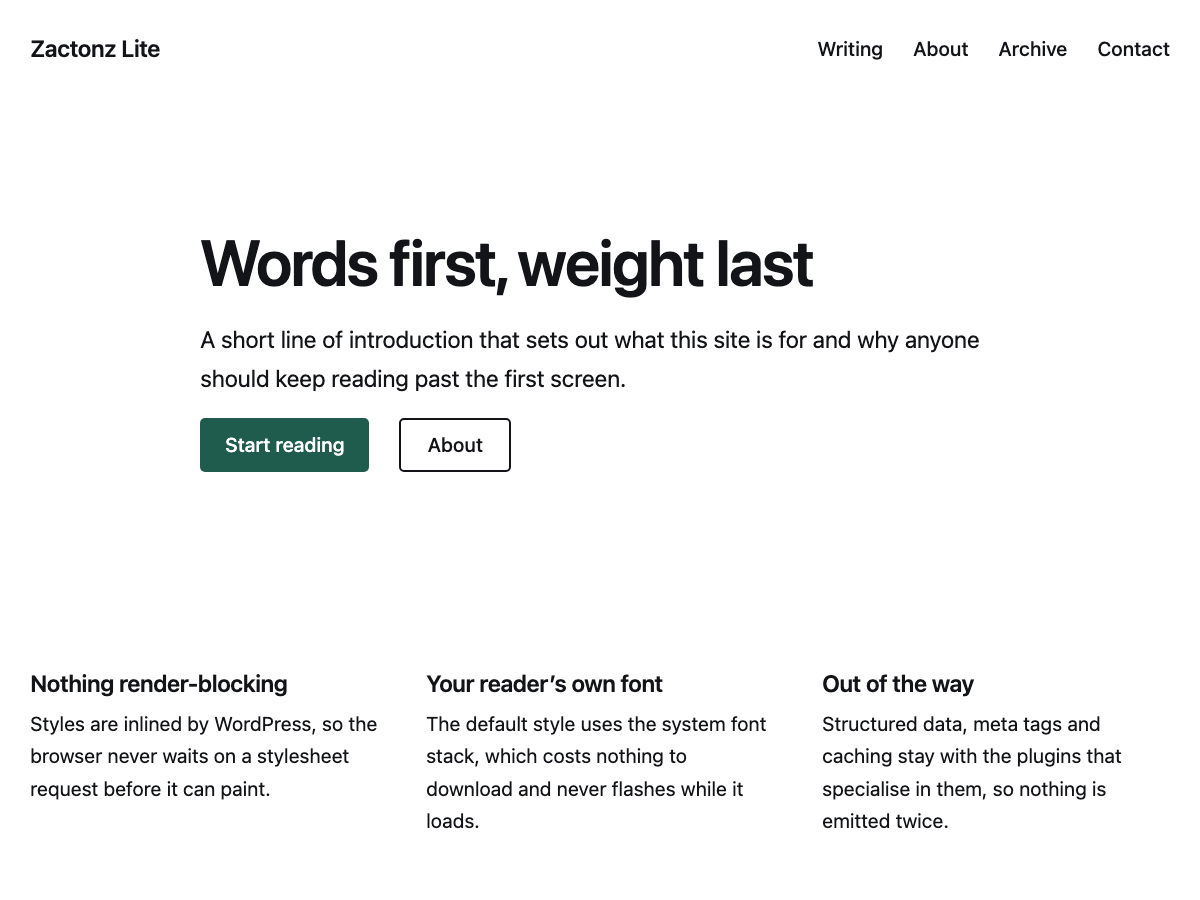
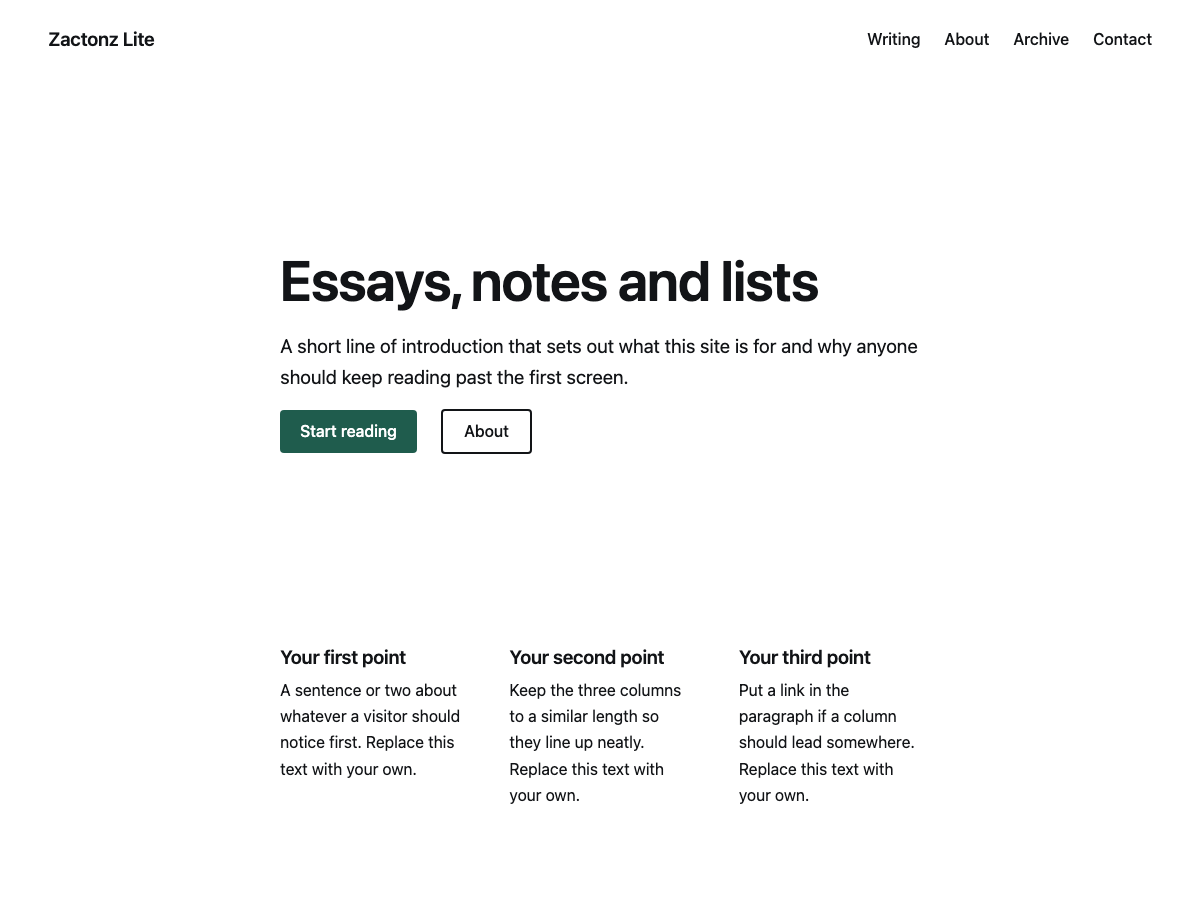
Stop the theme advertising itself, and ship as 1.0.2
Approved by WordPress.org on 22 November 2026 and live in the directory.
This commit is the source of that published build: every one of the 36
files in the published zip is byte-identical to this tree, verified by
downloading zactonz-lite.1.0.2.zip and diffing it file by file.

The reviewer's objection was that the theme described itself in the
places a site is meant to describe itself.

  The screenshot showed three columns of copy about the theme's own
  features, which reads as an advertisement rather than as the theme.

  The Three columns of features pattern shipped that same copy, so
  inserting it gave a site paragraphs about this theme instead of
  placeholder text to replace. It now reads "Your first point" and so on.

  The Hero pattern headline was the theme's tagline rather than a
  headline a site would write.

Alongside those:

  assets/css/main.un-compressed.css becomes main.css, and the loaded file
  becomes main.min.css, which is the convention. Both still ship; only the
  names changed.

  The developer documentation still described a navigation stylesheet and
  a filter that 1.0.1 removed.

Only 1.0.2 is tagged. 1.0.0 was never published and 1.0.1 was submitted
but superseded during review, so neither is a version anyone installed.

diff --git a/assets/css/main.css b/assets/css/main.css
@@ -1,1 +1,80 @@
-.zlite-bar{box-sizing:border-box;width:100%;max-width:var(--wp--style--global--wide-size);margin-inline:auto;padding-inline:var(--wp--style--root--padding-right)}.zlite-media img{width:100%;height:auto;aspect-ratio:16 / 10;object-fit:cover}.zlite-rule{border-top:1px solid var(--wp--preset--color--accent-soft)}.wp-site-blocks pre{max-width:100%;overflow-x:auto}.wp-site-blocks img,.wp-site-blocks iframe,.wp-site-blocks embed,.wp-site-blocks object,.wp-site-blocks video{max-width:100%}.wp-site-blocks img{height:auto}.wp-block-media-text__media img{aspect-ratio:auto 16 / 10}.wp-site-blocks .wp-caption{max-width:100%}.wp-site-blocks .wp-caption img{height:auto}.wp-site-blocks .entry-content,.wp-site-blocks .wp-block-post-title,.wp-site-blocks .wp-block-heading{overflow-wrap:break-word}
+.zlite-bar {
+	box-sizing: border-box;
+	width: 100%;
+	max-width: var(--wp--style--global--wide-size);
+	margin-inline: auto;
+	padding-inline: var(--wp--style--root--padding-right);
+}
+
+.zlite-media img {
+	width: 100%;
+	height: auto;
+	aspect-ratio: 16 / 10;
+	object-fit: cover;
+}
+
+.zlite-rule {
+	border-top: 1px solid var(--wp--preset--color--accent-soft);
+}
+
+/*
+ * Guards for content the theme did not author.
+ *
+ * A block theme gets its layout from theme.json, which sizes the blocks it knows
+ * about. It does not constrain what arrives inside them: a pasted URL, a code sample,
+ * a wide table, an old [caption] shortcode or an embed from before the block editor.
+ * Any of those can be wider than the column, and because the column is inside the
+ * page, the page scrolls sideways rather than the content. Everything below keeps the
+ * overflow inside the element it belongs to.
+ */
+
+.wp-site-blocks pre {
+	max-width: 100%;
+	overflow-x: auto;
+}
+
+.wp-site-blocks img,
+.wp-site-blocks iframe,
+.wp-site-blocks embed,
+.wp-site-blocks object,
+.wp-site-blocks video {
+	max-width: 100%;
+}
+
+.wp-site-blocks img {
+	height: auto;
+}
+
+/*
+ * Reserve the Image beside text pattern's proportions while its picture loads, which
+ * is what the width and height attributes used to do before they were removed: core's
+ * media-text block saves only src and alt on that img, so anything else there makes the
+ * block invalid in the editor.
+ *
+ * The auto keyword is load-bearing. A bare ratio would be imposed on whatever picture
+ * the user drops in and squash it; with auto, the ratio applies only until the image
+ * reports its own, which is exactly the window the layout shift happens in.
+ */
+.wp-block-media-text__media img {
+	aspect-ratio: auto 16 / 10;
+}
+
+/* The caption markup the classic editor produced, which carries its own width. */
+.wp-site-blocks .wp-caption {
+	max-width: 100%;
+}
+
+.wp-site-blocks .wp-caption img {
+	height: auto;
+}
+
+/*
+ * A single unbroken string - a long URL, a compound word - cannot wrap on its own.
+ * break-word leaves ordinary prose alone and only intervenes when a word would
+ * otherwise overflow.
+ */
+.wp-site-blocks .entry-content,
+.wp-site-blocks .wp-block-post-title,
+.wp-site-blocks .wp-block-heading {
+	overflow-wrap: break-word;
+}

diff --git a/assets/css/main.min.css b/assets/css/main.min.css
@@ -1,0 +1,1 @@
+.zlite-bar{box-sizing:border-box;width:100%;max-width:var(--wp--style--global--wide-size);margin-inline:auto;padding-inline:var(--wp--style--root--padding-right)}.zlite-media img{width:100%;height:auto;aspect-ratio:16 / 10;object-fit:cover}.zlite-rule{border-top:1px solid var(--wp--preset--color--accent-soft)}.wp-site-blocks pre{max-width:100%;overflow-x:auto}.wp-site-blocks img,.wp-site-blocks iframe,.wp-site-blocks embed,.wp-site-blocks object,.wp-site-blocks video{max-width:100%}.wp-site-blocks img{height:auto}.wp-block-media-text__media img{aspect-ratio:auto 16 / 10}.wp-site-blocks .wp-caption{max-width:100%}.wp-site-blocks .wp-caption img{height:auto}.wp-site-blocks .entry-content,.wp-site-blocks .wp-block-post-title,.wp-site-blocks .wp-block-heading{overflow-wrap:break-word}

diff --git a/style.css b/style.css
@@ -7,7 +7,7 @@ Description: A featherweight block theme for publishers who care about page weig
 Requires at least: 6.8
 Tested up to: 7.1
 Requires PHP: 7.4
-Version: 1.0.1
+Version: 1.0.2
 License: GNU General Public License v2 or later
 License URI: https://www.gnu.org/licenses/gpl-2.0.html
 Text Domain: zactonz-lite

diff --git a/patterns/features-three-column.php b/patterns/features-three-column.php
@@ -9,16 +9,16 @@
 
 $zactonz_lite_features = array(
 	array(
-		'title' => __( 'Nothing render-blocking', 'zactonz-lite' ),
-		'body'  => __( 'Styles are inlined by WordPress, so the browser never waits on a stylesheet request before it can paint.', 'zactonz-lite' ),
+		'title' => __( 'Your first point', 'zactonz-lite' ),
+		'body'  => __( 'A sentence or two about whatever a visitor should notice first. Replace this text with your own.', 'zactonz-lite' ),
 	),
 	array(
-		'title' => __( 'Your reader’s own font', 'zactonz-lite' ),
-		'body'  => __( 'The default style uses the system font stack, which costs nothing to download and never flashes while it loads.', 'zactonz-lite' ),
+		'title' => __( 'Your second point', 'zactonz-lite' ),
+		'body'  => __( 'Keep the three columns to a similar length so they line up neatly. Replace this text with your own.', 'zactonz-lite' ),
 	),
 	array(
-		'title' => __( 'Out of the way', 'zactonz-lite' ),
-		'body'  => __( 'Structured data, meta tags and caching stay with the plugins that specialise in them, so nothing is emitted twice.', 'zactonz-lite' ),
+		'title' => __( 'Your third point', 'zactonz-lite' ),
+		'body'  => __( 'Put a link in the paragraph if a column should lead somewhere. Replace this text with your own.', 'zactonz-lite' ),
 	),
 );
 

diff --git a/tools/lint.php b/tools/lint.php
@@ -23,7 +23,7 @@ function zl_files( $root, $pattern ) {
 $php_files      = zl_files( $root, '~\.php$~' );
 $shipped_php    = array_values( array_filter( $php_files, fn( $f ) => ! str_contains( $f, '/tools/' ) ) );
 $block_files    = array_merge( zl_files( $root, '~/(templates|parts)/.*\.html$~' ), zl_files( $root, '~/patterns/.*\.php$~' ) );
-$css_min        = zl_files( $root, '~/assets/css/[^/]*(?<!un-compressed)\.css$~' );
+$css_min        = zl_files( $root, '~/assets/css/[^/]*\.min\.css$~' );
 $style_css      = file_get_contents( $root . '/style.css' );
 
 $rel = fn( $f ) => str_replace( $root . '/', '', $f );
@@ -138,9 +138,9 @@ foreach ( array_merge( $shipped_php, $block_files, zl_files( $root, '~/assets/cs
 
 // 10. Minified CSS must ship with its readable source.
 foreach ( $css_min as $file ) {
-	$source = preg_replace( '~\.css$~', '.un-compressed.css', $file );
+	$source = preg_replace( '~\.min\.css$~', '.css', $file );
 	if ( ! file_exists( $source ) ) {
-		$fail[] = $rel( $file ) . ': minified CSS without an un-compressed source beside it';
+		$fail[] = $rel( $file ) . ': minified CSS without its readable source beside it';
 	} elseif ( filesize( $file ) > filesize( $source ) ) {
 		$warn[] = $rel( $file ) . ': minified file is larger than its source';
 	}

diff --git a/patterns/hero.php b/patterns/hero.php
@@ -11,7 +11,7 @@
 <!-- wp:group {"style":{"spacing":{"blockGap":"var:preset|spacing|30","padding":{"top":"var:preset|spacing|70","bottom":"var:preset|spacing|70"}}},"layout":{"type":"constrained"}} -->
 <div class="wp-block-group" style="padding-top:var(--wp--preset--spacing--70);padding-bottom:var(--wp--preset--spacing--70)">
 	<!-- wp:heading {"level":2,"fontSize":"xx-large"} -->
-	<h2 class="wp-block-heading has-xx-large-font-size"><?php echo esc_html__( 'Words first, weight last', 'zactonz-lite' ); ?></h2>
+	<h2 class="wp-block-heading has-xx-large-font-size"><?php echo esc_html__( 'Essays, notes and lists', 'zactonz-lite' ); ?></h2>
 	<!-- /wp:heading -->
 	<!-- wp:paragraph {"fontSize":"medium"} -->
 	<p class="has-medium-font-size"><?php echo esc_html__( 'A short line of introduction that sets out what this site is for and why anyone should keep reading past the first screen.', 'zactonz-lite' ); ?></p>

diff --git a/tools/build-css.php b/tools/build-css.php
@@ -1,14 +1,19 @@
 <?php
 
-$sources = glob( __DIR__ . '/../assets/css/*.un-compressed.css' );
+$sources = array_values(
+	array_filter(
+		glob( __DIR__ . '/../assets/css/*.css' ),
+		static fn( $path ) => ! str_ends_with( $path, '.min.css' )
+	)
+);
 
 if ( ! $sources ) {
-	fwrite( STDERR, "no *.un-compressed.css sources found\n" );
+	fwrite( STDERR, "no stylesheet sources found\n" );
 	exit( 1 );
 }
 
 foreach ( $sources as $src ) {
-	$out = preg_replace( '~\.un-compressed\.css$~', '.css', $src );
+	$out = preg_replace( '~\.css$~', '.min.css', $src );
 	$css = file_get_contents( $src );
 	$css = preg_replace( '~/\*.*?\*/~s', '', $css );
 	$css = preg_replace( '~\s+~', ' ', $css );

diff --git a/inc/setup.php b/inc/setup.php
@@ -18,7 +18,7 @@ add_action( 'after_setup_theme', 'zactonz_lite_setup' );
  */
 function zactonz_lite_setup() {
 	load_theme_textdomain( 'zactonz-lite', ZACTONZ_LITE_DIR . '/languages' );
-	add_editor_style( 'assets/css/main.css' );
+	add_editor_style( 'assets/css/main.min.css' );
 }
 
 add_action( 'init', 'zactonz_lite_register_pattern_category' );

diff --git a/inc/assets.php b/inc/assets.php
@@ -21,7 +21,7 @@ add_action( 'wp_enqueue_scripts', 'zactonz_lite_enqueue_styles' );
  * @return void
  */
 function zactonz_lite_enqueue_styles() {
-	$relative = 'assets/css/main.css';
+	$relative = 'assets/css/main.min.css';
 	$absolute = ZACTONZ_LITE_DIR . '/' . $relative;
 
 	if ( ! file_exists( $absolute ) ) {

diff --git a/functions.php b/functions.php
@@ -15,7 +15,7 @@ if ( ! defined( 'ABSPATH' ) ) {
 }
 
 if ( ! defined( 'ZACTONZ_LITE_VERSION' ) ) {
-	define( 'ZACTONZ_LITE_VERSION', '1.0.1' );
+	define( 'ZACTONZ_LITE_VERSION', '1.0.2' );
 }
 
 if ( ! defined( 'ZACTONZ_LITE_DIR' ) ) {

diff --git a/docs/navigation.md b/docs/navigation.md
@@ -37,37 +37,15 @@ own**, and the menu is plain anchor markup a crawler reads without executing any
 At narrow widths the items wrap onto a second line instead of collapsing behind a button. Verified at
 375px: all four items visible, no horizontal page scroll.
 
-The trade-off is real. A long menu wraps to several lines on a phone. If you need an overlay, change
-it and restore core's stylesheet — the next section explains why both steps are needed.
-
-
-### If you change the header
-
-Restore core's stylesheet whenever your navigation uses an overlay or submenus, or they will render
-unstyled:
-
-```php
-add_filter( 'zactonz_lite_slim_navigation_style', '__return_false' );
-```
-
-From a must-use plugin, because the filter is read while the theme loads.
-
-### If you extend the slim stylesheet instead
-
-Edit `assets/css/navigation.un-compressed.css`, then rebuild:
-
-```bash
-php tools/build-css.php
-```
-
-The minified file and its readable source must both ship — the directory requires it, and
-`tools/lint.php` fails if they drift.
+The trade-off is real. A long menu wraps to several lines on a phone. If you need an overlay, set
+`overlayMenu` back to `"mobile"` on the navigation block. Core's own stylesheet and scripts are
+present, so the overlay works with no further change — see **The core stylesheet stays** below.
 
 ## Submenus
 
-The slim stylesheet does not carry core's submenu rules. If you add a submenu, take the
-`zactonz_lite_slim_navigation_style` route above rather than copying fragments of core's CSS, which
-changes between releases.
+Submenus render with core's own rules. Anything the theme wants on top of them belongs in
+`assets/css/main.css` with a more specific selector, rather than a copy of core's CSS, which changes
+between releases.
 
 ## Accessibility
 

diff --git a/docs/extending.md b/docs/extending.md
@@ -32,7 +32,7 @@ foreach ( array( 'setup', 'assets', 'performance' ) as $module ) {
 | Filter | Default | Skipping it means |
 |---|---|---|
 | `zactonz_lite_load_setup` | `true` | No text domain, no editor style, no pattern category, no block styles, no comment-heading fix |
-| `zactonz_lite_load_assets` | `true` | No `main.css`, no font preloading, no navigation stylesheet substitution |
+| `zactonz_lite_load_assets` | `true` | No stylesheet and no font preloading |
 
 These run at theme load, so they must be set from a must-use plugin:
 
@@ -44,26 +44,6 @@ add_filter( 'zactonz_lite_load_assets', '__return_false' );
 A plugin loaded normally is too late — `functions.php` has already run.
 
 ## Assets
-
-### `zactonz_lite_slim_navigation_style`
-
-```php
-apply_filters( 'zactonz_lite_slim_navigation_style', true );
-```
-
-Core's `wp-block-navigation` stylesheet is 20,776 bytes, most of it responsive-overlay and submenu
-variants this theme's header never renders. When this returns `true`, the theme skips preloading that
-handle and re-registers it against its own 1,628-byte file, saving 19,148 bytes on every page.
-
-Return `false` to keep core's stylesheet — do that if you replace the header with one that uses an
-overlay menu or submenus. See [Navigation and menus](navigation.md).
-
-```php
-add_filter( 'zactonz_lite_slim_navigation_style', '__return_false' );
-```
-
-The substitution runs on `wp_enqueue_scripts` at priority 20 and bails if the handle is not
-registered, so the order relative to other plugins is safe.
 
 ### `zactonz_lite_enable_font_preload`
 
